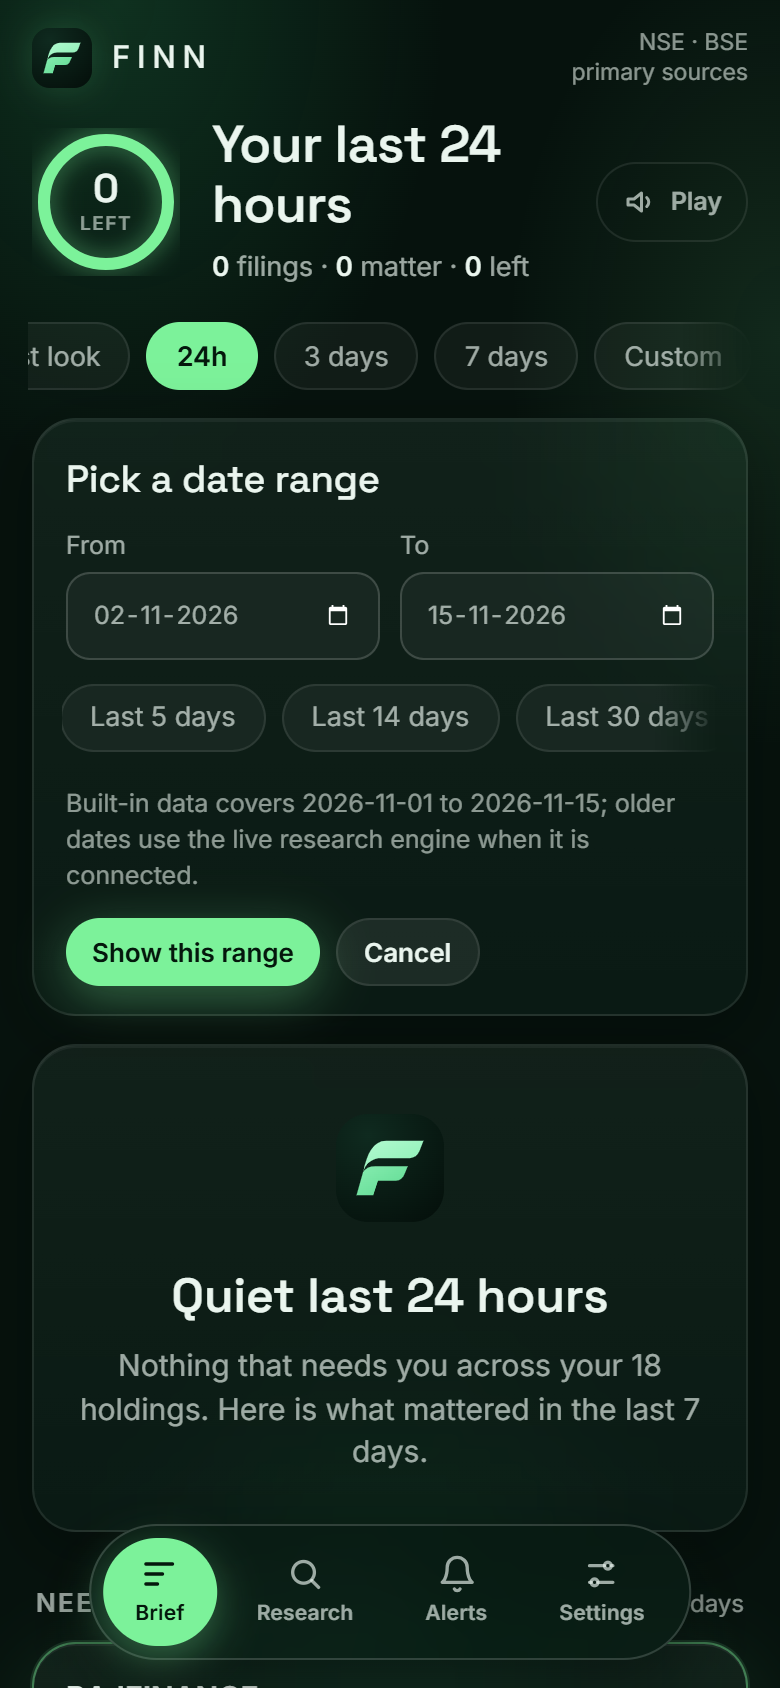
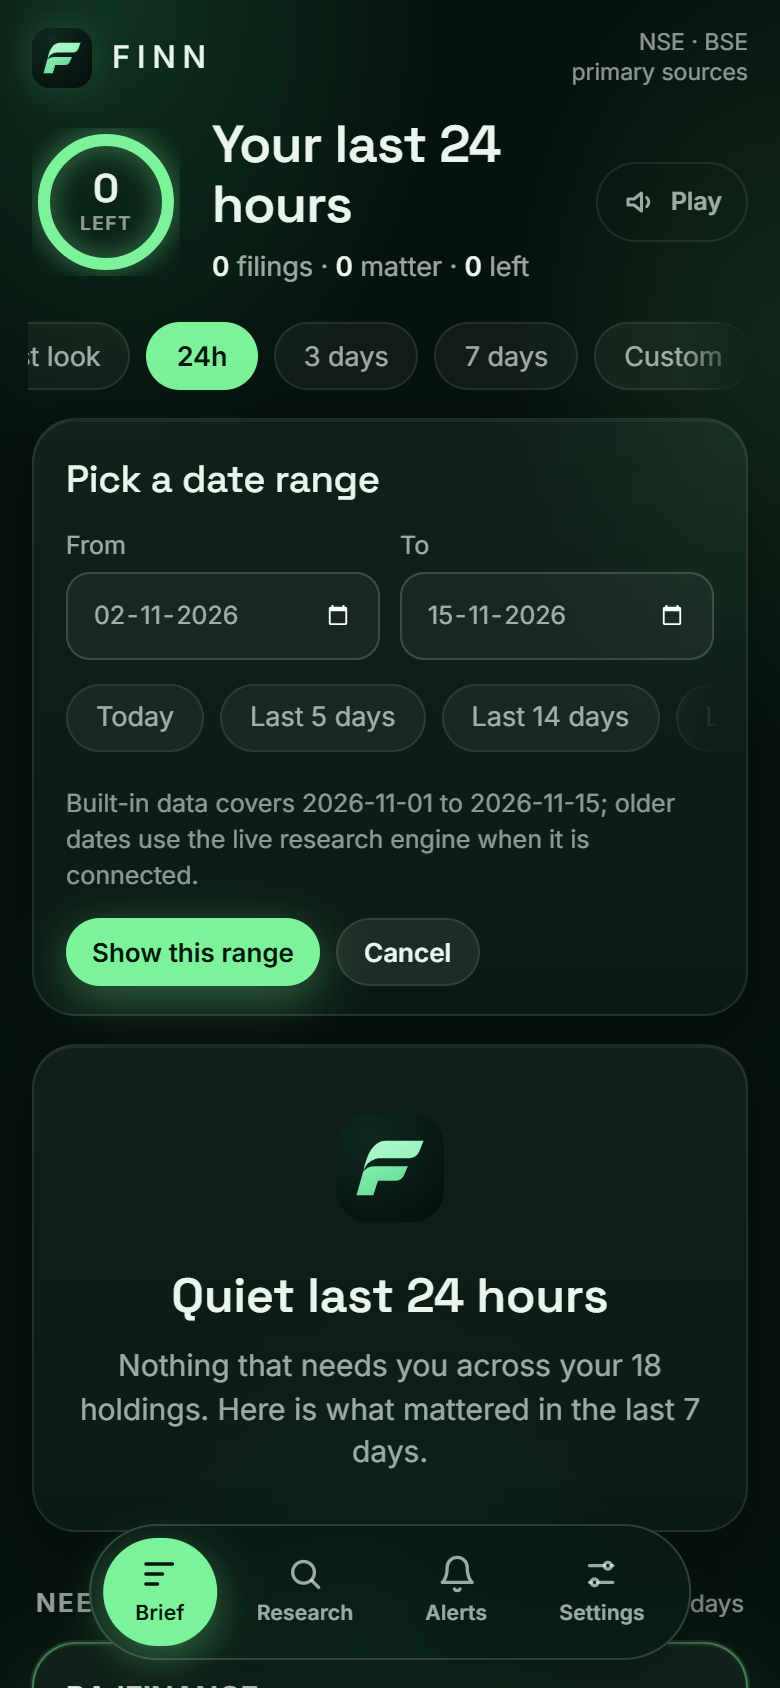
Opening animation: the F forms and the wordmark settles (about 2.5 s, once per visit, tap to skip)

Changed region(s): [[0.1231, 0.4005, 0.8923, 0.4313]]

diff --git a/frontend/src/components/Splash.tsx b/frontend/src/components/Splash.tsx
@@ -1,0 +1,53 @@
+import { AnimatePresence, motion, useReducedMotion } from "framer-motion";
+import { useEffect, useState } from "react";
+
+const TOP = "M 130.8 270.0 C 144.1 194.4, 175.3 126.5, 237.7 126.5 L 414.7 126.5 L 396.0 174.9 C 387.4 195.9, 370.3 209.2, 349.2 209.2 L 214.3 209.2 C 175.3 209.2, 140.2 233.4, 130.8 270.0 Z";
+const LOW = "M 97.3 385.5 L 128.5 276.3 C 136.3 258.3, 159.7 247.4, 187.0 247.4 L 340.6 247.4 L 327.4 280.2 C 318.8 302.0, 304.0 316.1, 284.5 316.1 L 198.7 316.1 L 176.1 385.5 Z";
+const ease = [0.2, 0.8, 0.2, 1] as const;
+
+/** Opening animation, once per visit: the two bars of the F slide in, the wordmark settles, then the app. Tap to skip. */
+export default function Splash() {
+  const reduce = useReducedMotion();
+  const [show, setShow] = useState(() => {
+    try {
+      if (navigator.webdriver || sessionStorage.getItem("finn.splash")) return false;
+      sessionStorage.setItem("finn.splash", "1");
+    } catch { /* private mode: still show it once */ }
+    return true;
+  });
+  useEffect(() => {
+    if (!show) return;
+    const t = setTimeout(() => setShow(false), reduce ? 900 : 2700);
+    return () => clearTimeout(t);
+  }, [show, reduce]);
+
+  return (
+    <AnimatePresence>
+      {show && (
+        <motion.div className="splash" onClick={() => setShow(false)} role="presentation"
+          exit={{ opacity: 0, scale: 1.03 }} transition={{ duration: 0.4, ease }}>
+          <svg viewBox="0 0 512 512" width="132" height="132" aria-hidden>
+            <defs>
+              <linearGradient id="sp-t" x1="0" y1="0" x2="1" y2="1"><stop offset="0" stopColor="#B2FAD0" /><stop offset="1" stopColor="#8BEFB4" /></linearGradient>
+              <linearGradient id="sp-l" x1="0" y1="0" x2="1" y2="1"><stop offset="0" stopColor="#86EDB0" /><stop offset="1" stopColor="#5FD992" /></linearGradient>
+            </defs>
+            <motion.path d={TOP} fill="url(#sp-t)"
+              initial={reduce ? { opacity: 0 } : { opacity: 0, x: -230, y: 70 }} animate={{ opacity: 1, x: 0, y: 0 }}
+              transition={{ duration: 0.85, delay: 0.2, ease }} />
+            <motion.path d={LOW} fill="url(#sp-l)"
+              initial={reduce ? { opacity: 0 } : { opacity: 0, x: -230, y: 70 }} animate={{ opacity: 1, x: 0, y: 0 }}
+              transition={{ duration: 0.85, delay: 0.55, ease }} />
+          </svg>
+          <motion.div className="splash-word"
+            initial={{ opacity: 0, letterSpacing: reduce ? "0.32em" : "0.6em" }} animate={{ opacity: 1, letterSpacing: "0.32em" }}
+            transition={{ duration: 0.8, delay: reduce ? 0.1 : 1.15, ease }}>
+            FINN
+          </motion.div>
+          <motion.div className="splash-line" initial={{ opacity: 0 }} animate={{ opacity: 1 }} transition={{ duration: 0.6, delay: reduce ? 0.2 : 1.6 }}>
+            what matters in your holdings
+          </motion.div>
+        </motion.div>
+      )}
+    </AnimatePresence>
+  );
+}

diff --git a/frontend/src/styles.css b/frontend/src/styles.css
@@ -343,3 +343,8 @@ button:active, .chip:active, .why-btn:active, .btn:active { transform: scale(0.9
 .score-name { font-size: 12.5px; color: var(--text-3); white-space: nowrap; overflow: hidden; text-overflow: ellipsis; margin-top: 1px; }
 .score-left .line2 { white-space: nowrap; overflow: hidden; text-overflow: ellipsis; font-size: 12px; }
 .score-pills { flex: none; display: flex; flex-direction: column; align-items: flex-end; gap: 5px; }
+
+.splash { position: fixed; inset: 0; z-index: 100; display: flex; flex-direction: column; align-items: center; justify-content: center; gap: 6px;
+  background: radial-gradient(60% 40% at 50% 40%, rgba(46, 160, 98, 0.16), transparent 70%), #06120D; cursor: pointer; }
+.splash-word { font-family: var(--font); font-weight: 500; font-size: 22px; color: var(--text); margin-top: 4px; padding-left: 0.32em; }
+.splash-line { font-size: 12.5px; color: var(--text-3); letter-spacing: .04em; }

diff --git a/frontend/src/App.tsx b/frontend/src/App.tsx
@@ -1,5 +1,6 @@
 import { AnimatePresence, LayoutGroup, motion, useReducedMotion } from "framer-motion";
 import { useEffect, useState } from "react";
+import Splash from "./components/Splash";
 import { Icon, Logo } from "./components/ui";
 import Alerts from "./screens/Alerts";
 import Brief from "./screens/Brief";
@@ -40,6 +41,7 @@ export default function App() {
   return (
     <>
       <div className="bg-glow" aria-hidden />
+      <Splash />
       <div className="app">
         <header className="topbar">
           <Logo />
